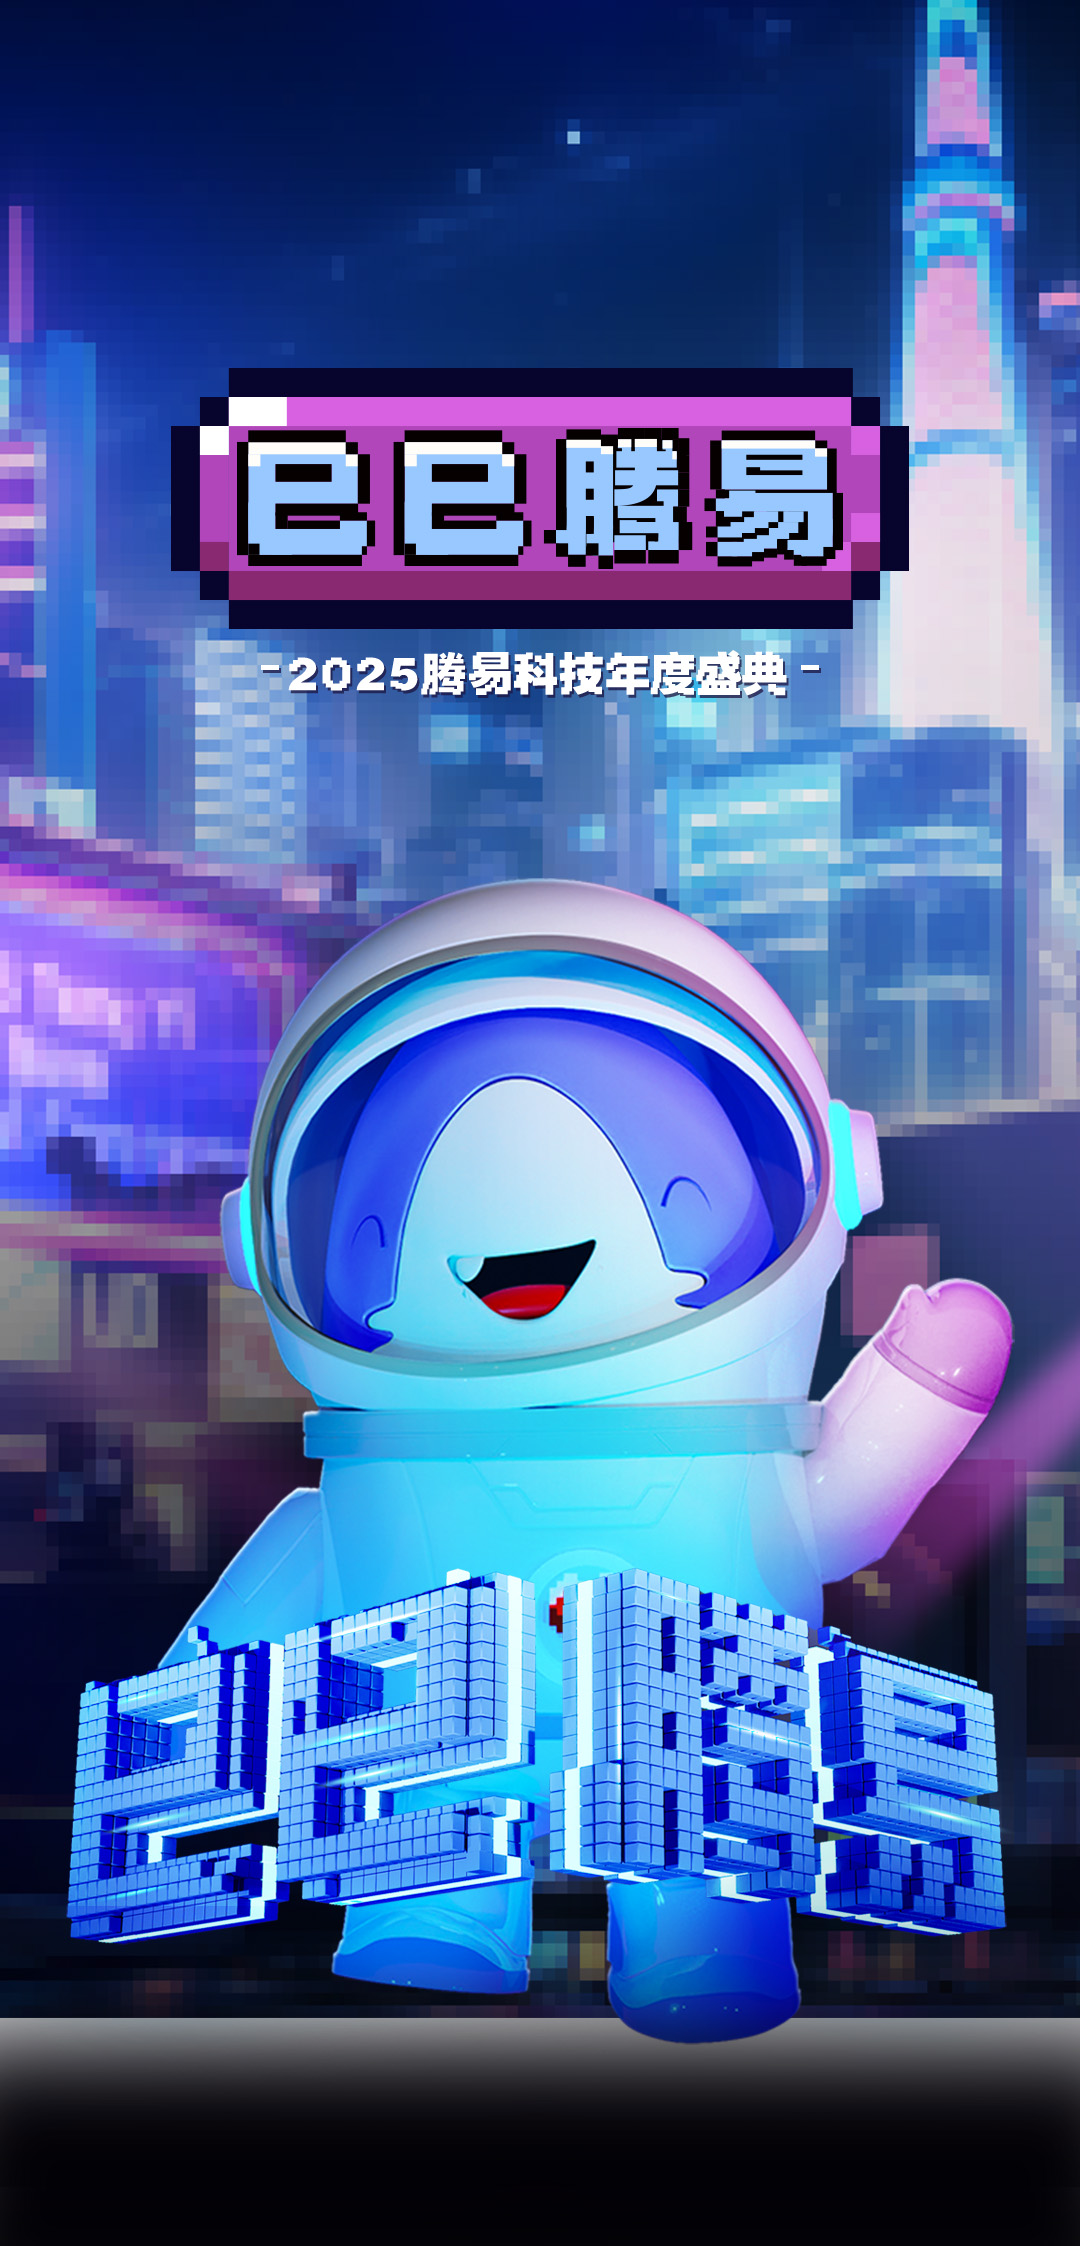
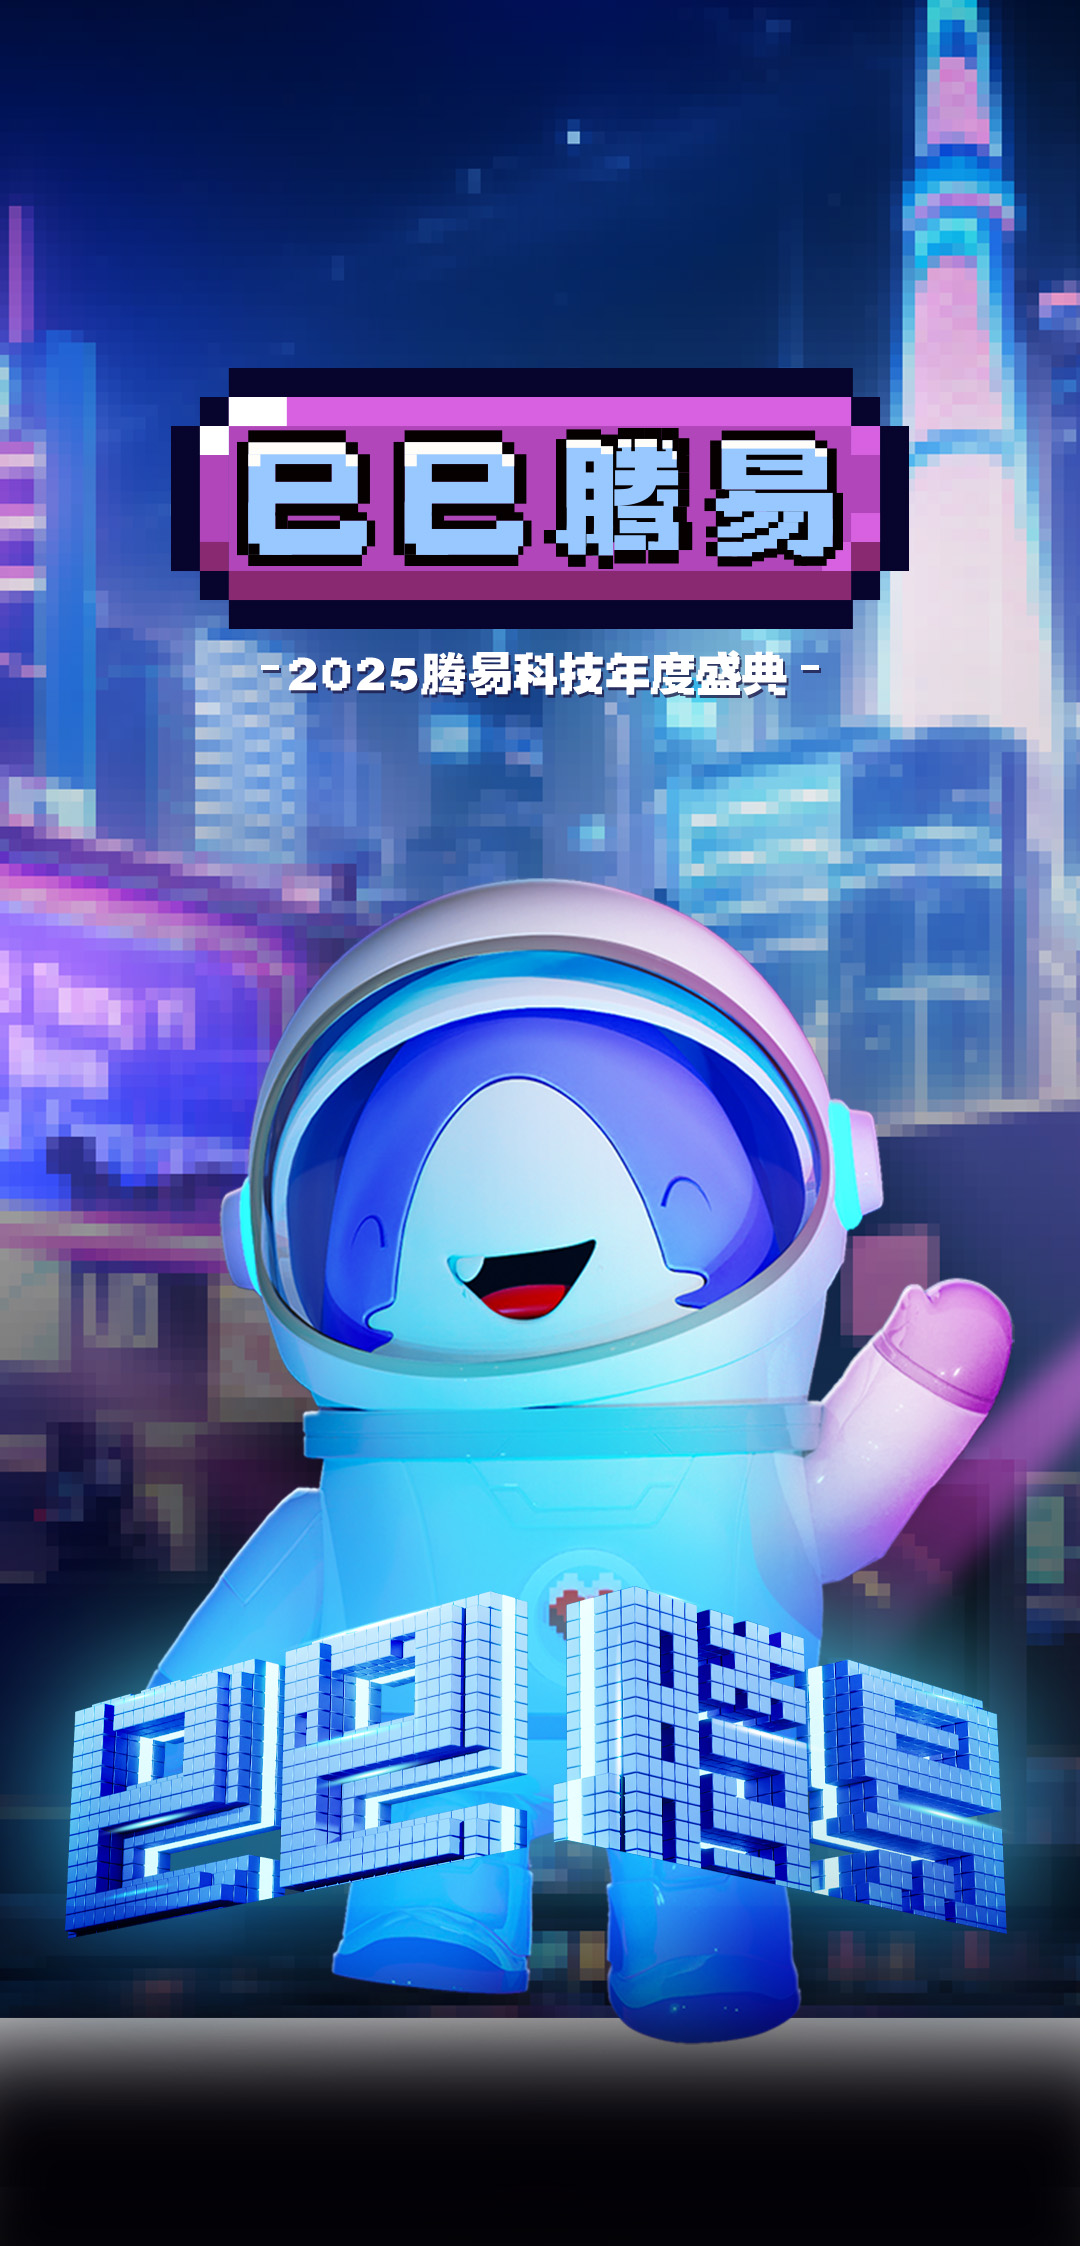
fix: 调整 pulse 动画的不透明度和持续时间至 3.5 秒

Changed region(s): [[0.0, 0.6857, 1.0, 0.9038]]

diff --git a/src/pages/index.vue b/src/pages/index.vue
@@ -32,17 +32,17 @@ onMounted(() => {
       </div> -->
       <img
         v-if="show"
-        class="absolute bottom-[232px] left-[46px] w-[150px]"
-        :class="[isDone ? 'animate-pulse' : '']"
-        src="../assets/imgs/l.png"
+        class="absolute bottom-[216px] left-[44px] w-[150px]"
+        :class="{ 'animate-pulse': isDone }"
+        src="../assets/imgs/5.png"
       />
       <img
         v-if="show"
-        class="absolute bottom-[230px] left-[560px] w-[140px]"
-        :class="[isDone ? 'animate-pulse' : '']"
-        src="../assets/imgs/r.png"
+        class="absolute bottom-[216px] left-[560px] w-[140px]"
+        :class="{ 'animate-pulse': isDone }"
+        src="../assets/imgs/6.png"
       />
-      <img class="absolute bottom-10 w-752" src="../assets/imgs/4.png" />
+      <img class="absolute bottom-0 w-752" src="../assets/imgs/4.png" />
     </main>
   </section>
 </template>

diff --git a/tailwind.config.ts b/tailwind.config.ts
@@ -80,7 +80,7 @@ export default {
           '100%': { transform: 'translateY(60%)' },
         },
         pulse: {
-          '0%, 100%': { opacity: '.9' },
+          '0%, 100%': { opacity: '1' },
           '50%': { opacity: '0' },
         },
       },
@@ -89,7 +89,7 @@ export default {
         'heart-beat': 'heartBeat_k 1.5s 0.3s ease-in-out infinite',
         handle: 'handle 1s ease infinite',
         'next-page': 'next-page 0.9s ease infinite alternate',
-        pulse: 'pulse 4s cubic-bezier(0.4, 0, 0.6, 1) infinite',
+        pulse: 'pulse 3.5s cubic-bezier(0.4, 0, 0.6, 1) infinite',
       },
     },
   },
